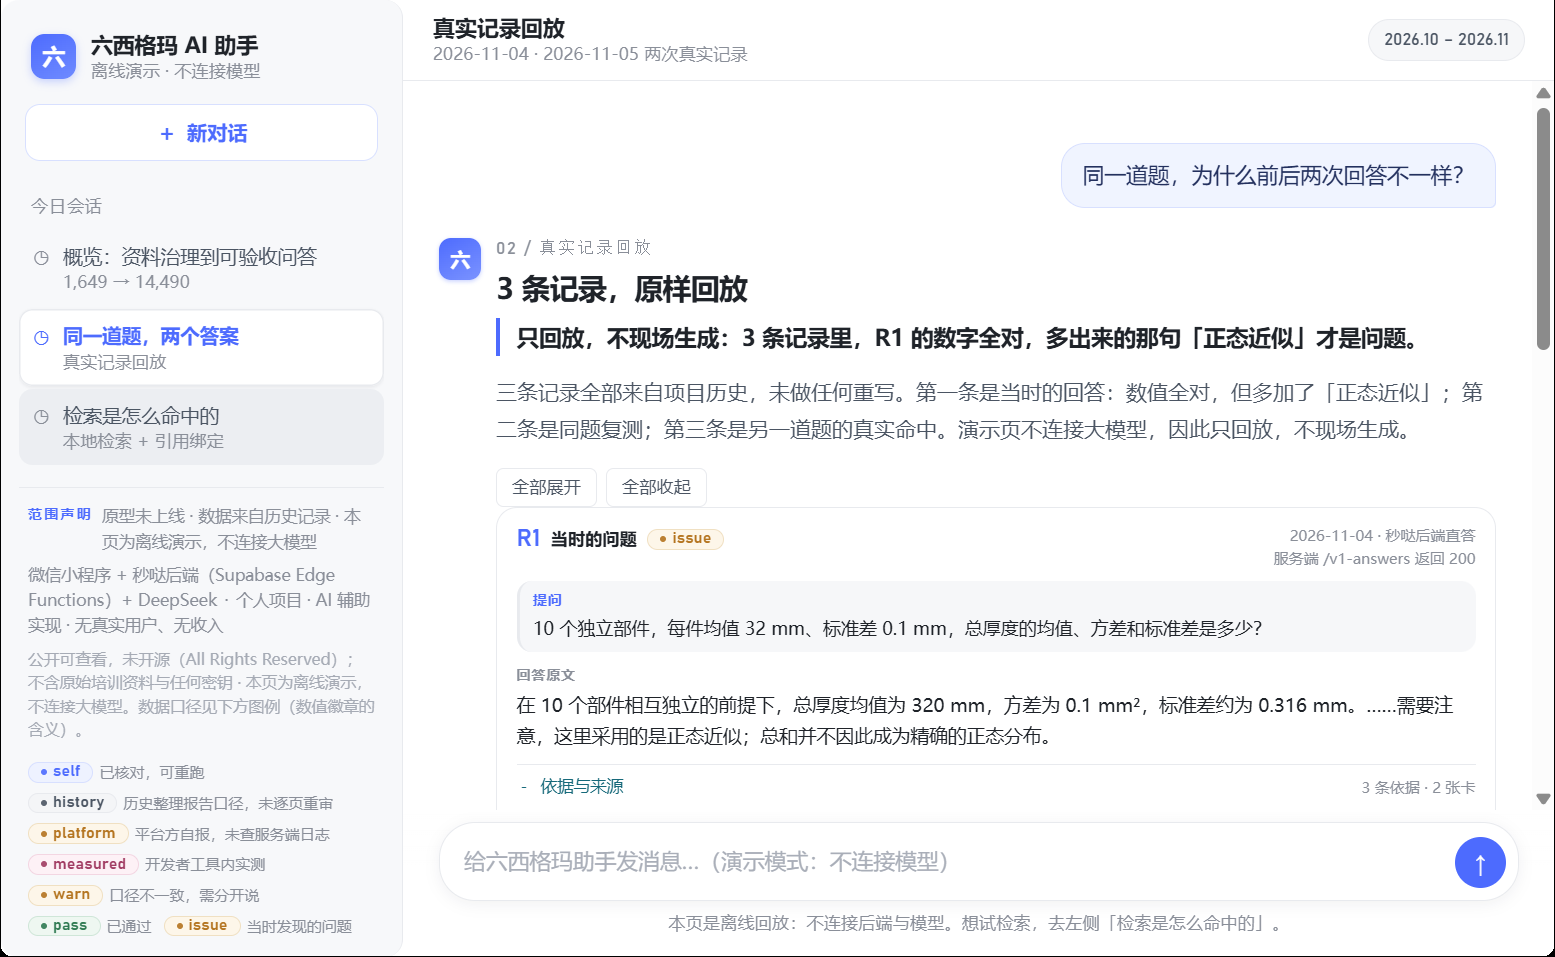
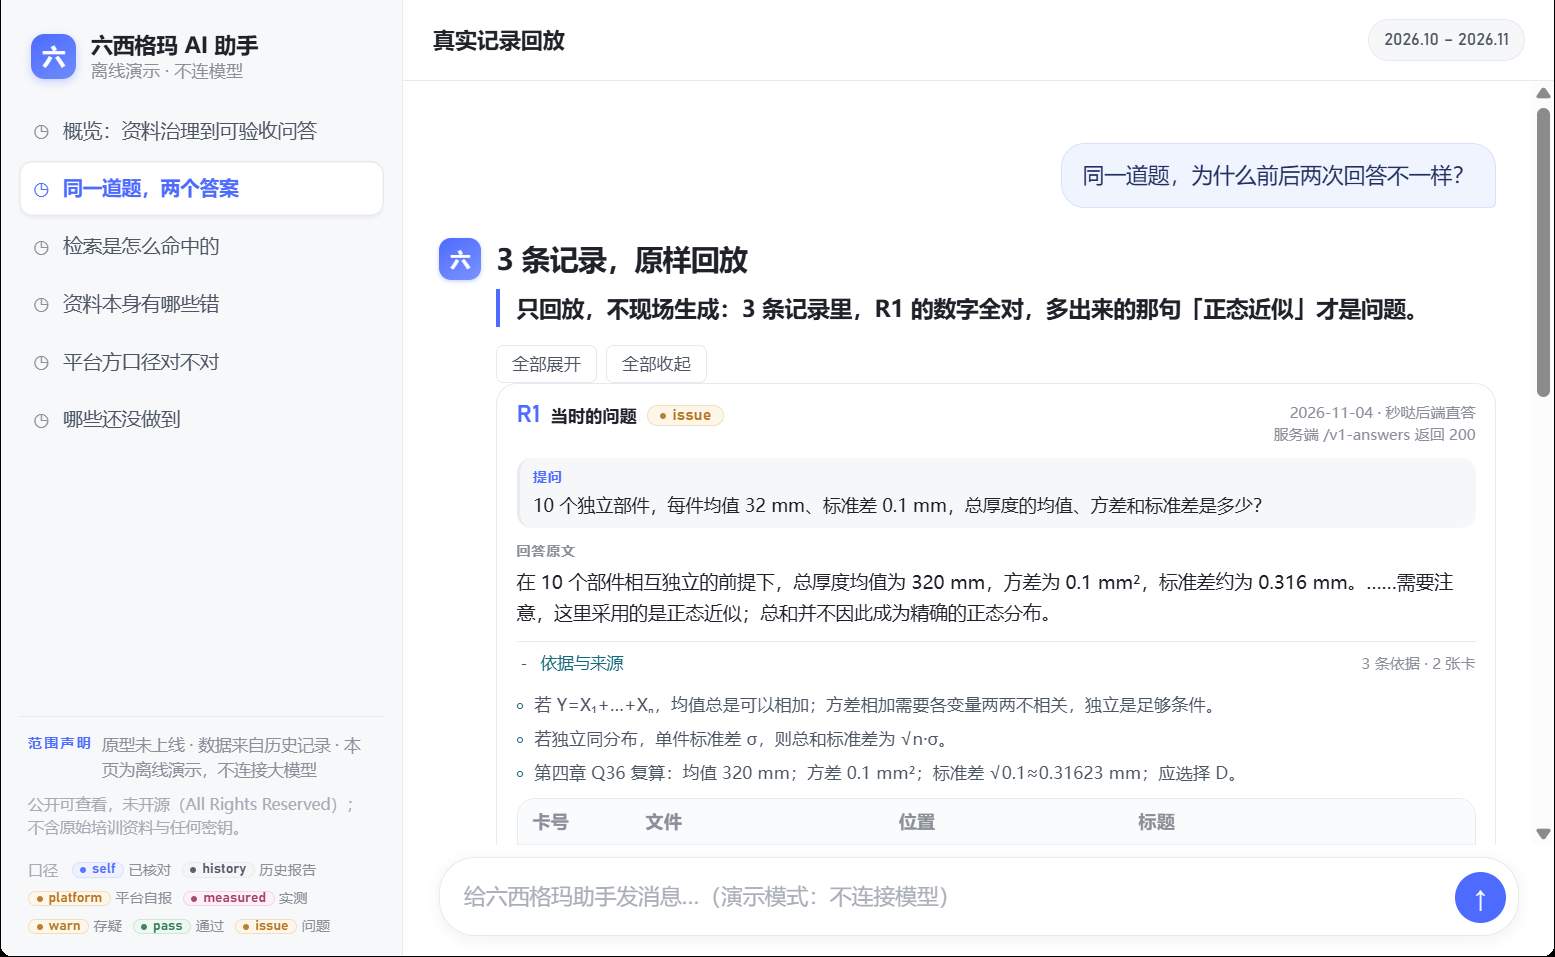
copy: 同步精简后的演示页文案与截图

diff --git a/assets/app.js b/assets/app.js
@@ -285,13 +285,14 @@
     var m = D.meta || {};
     var notice = doc.getElementById('footNotice');
     if (notice) {
-      notice.innerHTML = esc(m.repoNotice) + ' · 本页为离线演示，不连接大模型。数据口径见下方图例（数值徽章的含义）。';
+      notice.innerHTML = esc(m.repoNotice) + '。';
     }
     var legend = doc.getElementById('footLegend');
     if (legend && D.tagLegend) {
-      legend.innerHTML = TAG_ORDER.map(function (k) {
-        return '<span class="leg">' + tagSpan(k, D.tagLegend) +
-          '<span>' + esc(D.tagLegend[k]) + '</span></span>';
+      var SHORT = { self: '已核对', history: '历史报告', platform: '平台自报', measured: '实测', warn: '存疑', pass: '通过', issue: '问题' };
+      legend.innerHTML = '<span class="leg-label">口径</span>' + TAG_ORDER.map(function (k) {
+        return '<span class="leg" title="' + esc(D.tagLegend[k]) + '">' + tagSpan(k, D.tagLegend) +
+          '<span>' + esc(SHORT[k] || '') + '</span></span>';
       }).join('');
     }
   }
@@ -351,7 +352,6 @@
       kicker('overview') +
       '<h2 id="h-overview">从资料治理到可验收问答</h2>' +
       '<p class="claim">' + claim + '</p>' +
-      '<p class="lead">' + esc(D.meta.subtitle) + '</p>' +
       '<div class="ov-grid" style="display:block;width:100%">' +
         '<div class="ov-col side">' +
           '<h3 class="sub-h">分工：谁做了什么</h3>' +
@@ -371,7 +371,7 @@
       '<p class="footnote">证据：' +
         esc(evFile('资料盘点')) + '；' + esc(evFile('处理统计')) + '；' +
         esc(evFile('OCR 统计')) + '；' + esc(evFile('小程序检查')) +
-        '。徽章含义见页脚图例。</p>';
+        '。</p>';
   }
 
   /* ================= S2 真实记录回放 ================= */
@@ -432,14 +432,13 @@
       kicker('replay') +
       '<h2 id="h-replay">' + len(list) + ' 条记录，原样回放</h2>' +
       '<p class="claim">' + claim + '</p>' +
-      '<p class="lead">' + esc(D.replayIntro) + '</p>' +
       '<div class="rec-tools">' +
         '<button class="btn" type="button" id="recExpand">全部展开</button>' +
         '<button class="btn" type="button" id="recCollapse">全部收起</button>' +
       '</div>' +
       cardsHtml +
       '<ul class="bd-strip">' + boundaryHtml + '</ul>' +
-      '<p class="footnote">边界：' + len(D.replayBoundary) + ' 条记录之外的稳定性未验证。' +
+      '<p class="footnote">' +
         '证据：' + esc(evFile('接手核对')) + '；' + esc(evFile('校对记录')) + '。</p>';
 
     var nodes = host.querySelectorAll ? host.querySelectorAll('details.rec-more') : [];
@@ -483,18 +482,17 @@
       return '<button class="ex-btn" type="button" data-q="' + esc(q) + '">' + esc(q) + '</button>';
     }).join('');
 
-    var bottomLine = '检索结果只来自 ' + corpusN + ' 条演示语料（自拟，非原始培训资料）；' +
+    var bottomLine = '演示语料 ' + corpusN + ' 条为自拟，非原始培训资料；' +
       '正式产品的语料是 ' + esc(last.value) + ' ' + esc(last.unit) + '，不随仓库发布。';
 
     host.innerHTML =
       kicker('search') +
       '<h2 id="h-search">前端检索 + 引用绑定</h2>' +
       '<p class="claim">不接大模型，也能把「问题 → 卡号 → 原文片段」这条链路走完，并让它可复核。</p>' +
-      '<p class="lead">' + esc(D.searchNote) + '</p>' +
       '<div class="search-shell">' +
         '<div class="search-badges">' +
           '<span class="badge-strong">本地检索 · 无大模型</span>' +
-          '<span class="algo-note">bigram + IDF + 覆盖率修正 · 每次取 top ' + SEARCH.TOP + '</span>' +
+          '<span class="algo-note">bigram + IDF · top ' + SEARCH.TOP + '</span>' +
         '</div>' +
         '<form class="search-form" id="searchForm" role="search">' +
           '<label class="sr-only" for="searchQ">输入要检索的问题</label>' +
@@ -511,7 +509,7 @@
           ' · 分数按最高分归一化到 0–100 · 命中词已高亮</p>' +
         '<p class="search-line">' + bottomLine + '</p>' +
       '</div>' +
-      '<p class="footnote">检索完全在前端完成：不请求接口、不调用模型；无命中时按「没有依据」处理。</p>';
+      '<p class="footnote">不请求接口、不调用模型；无命中按「没有依据」处理。</p>';
 
     var form = doc.getElementById('searchForm');
     var input = doc.getElementById('searchQ');
@@ -622,7 +620,6 @@
       kicker('audit') +
       '<h2 id="h-audit">资料里的错，逐条留出处</h2>' +
       '<p class="claim">' + claim + '</p>' +
-      '<p class="lead">原答案不改，另开一列写校对结论；供应商的原始记录不被覆盖。</p>' +
       '<div class="err-grid">' + errHtml + '</div>' +
       '<h3 class="sub-h">FMEA 案例审核</h3>' +
       '<div class="tbl-wrap"><table class="tbl tbl-wide">' +
@@ -678,7 +675,7 @@
       kicker('defects') +
       '<h2 id="h-defects">后端缺陷与口径对照</h2>' +
       '<p class="claim">' + claim + '</p>' +
-      '<p class="lead">缺陷由 AI 逐条读源码得出；平台方口径与项目内核对结果分开写，能核的写能核，不能核的标不能核。</p>' +
+      '<p class="lead">缺陷由 AI 逐条读源码列出。</p>' +
       '<div class="def-grid">' +
         '<ol class="def-col">' + colA + '</ol>' +
         '<ol class="def-col">' + colB + '</ol>' +
@@ -748,7 +745,7 @@
         '<div class="tbl-wrap"><table class="tbl tbl-wide">' +
           '<thead><tr><th>证据</th><th>文件路径</th><th>证明什么</th><th>口径</th></tr></thead>' +
           '<tbody>' + evRows + '</tbody></table></div>' +
-        '<p class="footnote">文件不随仓库发布；口径徽章含义见页脚图例。</p>' +
+        '<p class="footnote">文件不随仓库发布。</p>' +
       '</div>';
   }
 
@@ -782,7 +779,6 @@
         '<div class="msg-body">' + inner +
           '<div class="msg-tools">' +
             '<button class="tool tool-copy" type="button" data-copy="' + esc(name) + '">⧉ 复制回答</button>' +
-            '<span class="tool">离线回放 · 不连接模型</span>' +
           '</div>' +
         '</div>' +
       '</div>';
@@ -809,8 +805,6 @@
   function fillChatHead(name) {
     var t = doc.getElementById('chatTitle');
     if (t) { t.textContent = ROUTE_TITLE[name] || ''; }
-    var s = doc.getElementById('chatSub');
-    if (s) { s.textContent = CHAT_SUB[name] || '离线回放 · 不连接大模型'; }
   }
 
   function closeDrawer() {
@@ -862,18 +856,20 @@
 
     var form = doc.getElementById('askForm');
     var input = doc.getElementById('askInput');
-    var hint = doc.getElementById('askHint');
     if (form) {
       form.addEventListener('submit', function (e) {
         e.preventDefault();
-        if (!hint) { return; }
-        hint.className = 'composer-hint is-warn';
-        hint.textContent = '演示模式：本页不连接后端与模型，不能真的回答。要试检索，请打开左侧「检索是怎么命中的」，在那一页输入。';
+        var box = doc.querySelector ? doc.querySelector('.composer') : null;
+        if (!box) { return; }
+        var old = doc.getElementById('askHint');
+        if (old && old.parentNode) { old.parentNode.removeChild(old); }
+        var tip = doc.createElement('p');
+        tip.className = 'composer-hint is-warn';
+        tip.id = 'askHint';
+        tip.textContent = '演示模式：不连接模型，不能真的回答。要试检索，去左侧「检索是怎么命中的」。';
+        box.appendChild(tip);
         if (input) { input.value = ''; input.blur(); }
-        global.setTimeout(function () {
-          hint.className = 'composer-hint';
-          hint.textContent = '本页是离线回放：不连接后端与模型。想试检索，去左侧「检索是怎么命中的」。';
-        }, 4200);
+        global.setTimeout(function () { if (tip.parentNode) { tip.parentNode.removeChild(tip); } }, 4000);
       }, false);
     }
     if (input) {

diff --git a/index.html b/index.html
@@ -26,45 +26,40 @@
         <span class="brand-mark" aria-hidden="true">六</span>
         <span class="brand-text">
           <strong id="siteTitle">六西格玛 AI 助手</strong>
-          <em>离线演示 · 不连接模型</em>
+          <em>离线演示 · 不连模型</em>
         </span>
       </a>
-      <button class="new-chat" type="button" id="newChat">
-        <span class="plus" aria-hidden="true">＋</span> 新对话
-      </button>
     </div>
 
     <nav class="tabs" aria-label="会话列表">
-      <p class="side-label">今日会话</p>
       <a class="conv" href="#/overview" data-route="overview">
         <span class="conv-ico" aria-hidden="true">◷</span>
-        <span class="conv-main"><span class="conv-t">概览：资料治理到可验收问答</span><span class="conv-sub">1,649 → 14,490</span></span>
+        <span class="conv-main"><span class="conv-t">概览：资料治理到可验收问答</span></span>
       </a>
       <a class="conv" href="#/replay" data-route="replay">
         <span class="conv-ico" aria-hidden="true">◷</span>
-        <span class="conv-main"><span class="conv-t">同一道题，两个答案</span><span class="conv-sub">真实记录回放</span></span>
+        <span class="conv-main"><span class="conv-t">同一道题，两个答案</span></span>
       </a>
       <a class="conv" href="#/search" data-route="search">
         <span class="conv-ico" aria-hidden="true">◷</span>
-        <span class="conv-main"><span class="conv-t">检索是怎么命中的</span><span class="conv-sub">本地检索 + 引用绑定</span></span>
+        <span class="conv-main"><span class="conv-t">检索是怎么命中的</span></span>
       </a>
       <a class="conv" href="#/audit" data-route="audit">
         <span class="conv-ico" aria-hidden="true">◷</span>
-        <span class="conv-main"><span class="conv-t">资料本身有哪些错</span><span class="conv-sub">4 处错误 · 29 条记录</span></span>
+        <span class="conv-main"><span class="conv-t">资料本身有哪些错</span></span>
       </a>
       <a class="conv" href="#/defects" data-route="defects">
         <span class="conv-ico" aria-hidden="true">◷</span>
-        <span class="conv-main"><span class="conv-t">平台方口径对不对</span><span class="conv-sub">9 处后端缺陷</span></span>
+        <span class="conv-main"><span class="conv-t">平台方口径对不对</span></span>
       </a>
       <a class="conv" href="#/boundary" data-route="boundary">
         <span class="conv-ico" aria-hidden="true">◷</span>
-        <span class="conv-main"><span class="conv-t">哪些还没做到</span><span class="conv-sub">边界与下一步</span></span>
+        <span class="conv-main"><span class="conv-t">哪些还没做到</span></span>
       </a>
     </nav>
 
     <div class="side-foot">
       <p class="side-scope"><span class="scope-mark">范围声明</span><span id="siteScope"></span></p>
-      <p class="side-meta" id="siteMeta"></p>
       <p class="side-legal" id="footNotice"></p>
       <div class="legend" id="footLegend" aria-label="数据口径图例"></div>
     </div>
@@ -75,7 +70,6 @@
       <button class="icon-btn" id="sideToggle" type="button" aria-label="展开会话列表" aria-expanded="false">☰</button>
       <div class="chat-head-mid">
         <h2 id="chatTitle">概览</h2>
-        <span class="chat-sub" id="chatSub">离线回放 · 不连接大模型</span>
       </div>
       <span class="pill" id="sitePeriod"></span>
     </header>
@@ -96,7 +90,6 @@
         <textarea id="askInput" rows="1" placeholder="给六西格玛助手发消息…（演示模式：不连接模型）"></textarea>
         <button class="send" id="askSend" type="submit" aria-label="发送">↑</button>
       </form>
-      <p class="composer-hint" id="askHint">本页是离线回放：不连接后端与模型。想试检索，去左侧「检索是怎么命中的」。</p>
     </div>
   </div>
 </div>

diff --git a/assets/ds.css b/assets/ds.css
@@ -371,3 +371,9 @@ mark { background: #fff2c2; color: inherit; border-radius: 3px; padding: 0 1px; 
 @media (max-width: 900px) {
   .app .msg-body .roles { grid-template-columns: minmax(0, 1fr) !important; }
 }
+
+/* 口径图例：紧凑一行式 */
+.leg-label { font-size: 10px; color: #a6abb5; margin-right: 2px; }
+.legend { gap: 2px 7px; }
+.legend .leg { font-size: 9.5px; gap: 3px; }
+.legend .tag { padding: 0 5px; font-size: 9px; }
